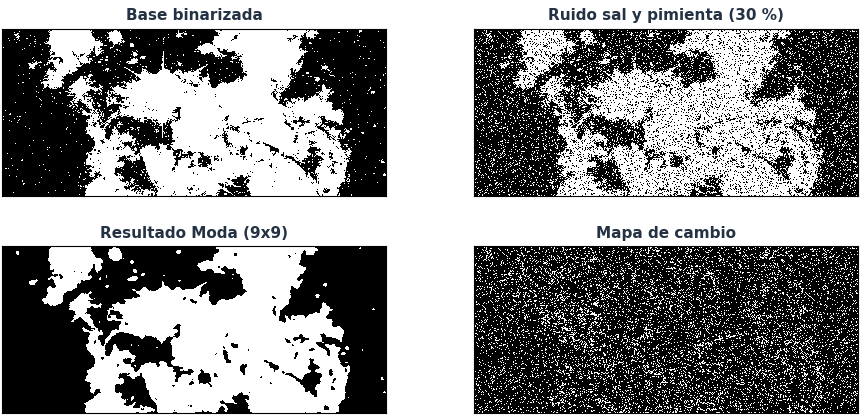
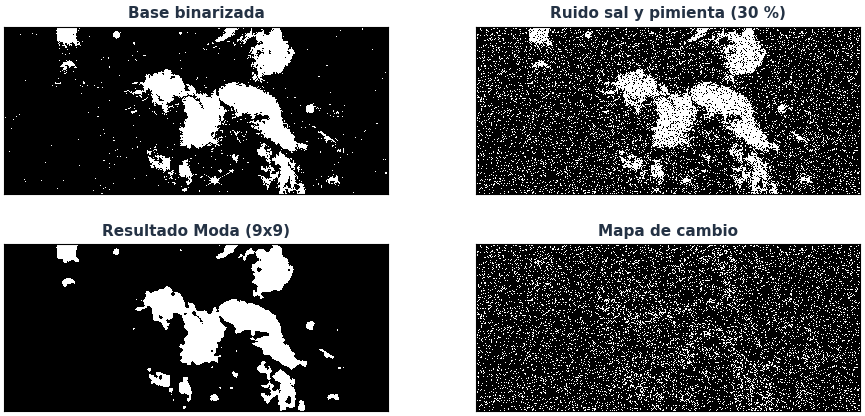
last changes

diff --git a/informe_imagenes/IA_VelasteguiManjarres_7SW_Filtros_dominio_espacial_frecuencia.tex b/informe_imagenes/IA_VelasteguiManjarres_7SW_Filtros_dominio_espacial_frecuencia.tex
@@ -79,7 +79,7 @@
 
 \textbf{Específicos:}
 \begin{itemize}
-    \item Construir una etapa de preprocesamiento que convierta la imagen a escala de grises, ecualice su histograma y genere una imagen binaria mediante umbral.
+    \item Construir una etapa de preprocesamiento que convierta la imagen a escala de grises, aplique normalización min-max y genere una imagen binaria mediante umbral.
     \item Evaluar filtros espaciales de media, mediana y moda sobre una imagen binaria alterada con ruido sal y pimienta.
     \item Analizar el filtrado en dominio de frecuencia mediante FFT, máscara gaussiana pasa bajas y reconstrucción de la imagen procesada.
 \end{itemize}
@@ -114,7 +114,7 @@
 
 \subsubsection*{Dependencias de Python utilizadas}
 \begin{itemize}
-    \item \textbf{OpenCV:} se emplea para leer la imagen desde disco y convertir la carga inicial de BGR a RGB. No se usa para binarizar, ecualizar ni filtrar.
+    \item \textbf{OpenCV:} se emplea para leer la imagen desde disco y convertir la carga inicial de BGR a RGB. No se usa para binarizar, normalizar ni filtrar.
     \item \textbf{NumPy:} se emplea para representar imágenes como matrices y para calcular la FFT en el dominio de frecuencia.
     \item \textbf{PySide6:} se usa para construir la interfaz gráfica, los botones, selectores, pestañas y controles deslizantes.
     \item \textbf{Matplotlib:} se usa para renderizar las imágenes y gráficos dentro de la interfaz.
@@ -153,7 +153,7 @@ En el dominio de frecuencia, la imagen se analiza mediante sus componentes espec
 
 Las técnicas tratadas en esta práctica tienen aplicaciones directas en problemas reales donde se necesita mejorar, limpiar o segmentar información visual. En imágenes médicas, por ejemplo, el realce de contraste y la reducción de ruido ayudan a distinguir estructuras anatómicas antes de una segmentación o diagnóstico asistido \cite{gonzalez}. En astronomía y teledetección, el filtrado y el análisis de frecuencias permiten resaltar estructuras extensas, reducir variaciones no deseadas y preparar imágenes para análisis posteriores \cite{pratt}. En documentos digitalizados o inspección industrial, la binarización y los filtros espaciales facilitan separar texto, defectos o regiones de interés del fondo \cite{jain}.
 
-En este proyecto esas aplicaciones se representan de forma controlada sobre una imagen de formación estelar W51. La imagen contiene zonas de alto brillo, regiones oscuras, detalles finos y textura; por eso es útil para observar cómo el preprocesamiento cambia la separación de intensidades, cómo el ruido sal y pimienta altera la imagen binaria y cómo los filtros espaciales y frecuenciales responden ante esa degradación.
+En este proyecto esas aplicaciones se representan de forma controlada sobre una imagen de formación estelar W51. La imagen contiene zonas de alto brillo, regiones oscuras, detalles finos y textura; por eso es útil para observar cómo el preprocesamiento ajusta el rango de intensidades, cómo el ruido sal y pimienta altera la imagen binaria y cómo los filtros espaciales y frecuenciales responden ante esa degradación.
 
 \subsubsection{Conversión a escala de grises}
 
@@ -164,20 +164,20 @@ El programa convierte la imagen RGB a escala de grises mediante la ponderación 
 \end{equation}
 Esta expresión asigna mayor peso al canal verde porque la percepción humana es más sensible a sus variaciones, y pesos menores a los canales rojo y azul \cite{gonzalez}. En el código esta operación se implementa con recorridos pixel a pixel, sin usar una función automática de OpenCV para convertir a grises.
 
-\subsubsection{Ecualización de histograma}
+\subsubsection{Normalización min-max}
 
-La ecualización de histograma busca redistribuir los niveles de intensidad de una imagen para mejorar su contraste global. Para ello se calcula el histograma, luego su distribución acumulada y finalmente se reasigna cada nivel de gris. El principio se basa en transformar la distribución original de intensidades en una distribución más extendida dentro del rango disponible \cite{jain}.
+La normalización min-max ajusta los niveles de intensidad de una imagen al rango completo disponible, sin redistribuir el histograma mediante una función acumulada. Este procedimiento toma el valor mínimo y el valor máximo presentes en la imagen en escala de grises, y reescala cada píxel proporcionalmente dentro del intervalo de 0 a 255. De esta forma, se aprovecha todo el rango dinámico antes de aplicar la binarización \cite{gonzalez,jain}.
 
-En la implementación del proyecto, el histograma de 256 posiciones se calcula mediante conteo manual. Luego se obtiene el acumulado y se aplica la transformación:
+En la implementación del proyecto, el mínimo y el máximo se calculan mediante recorridos manuales sobre la matriz de intensidades. Luego se aplica la transformación:
 \begin{equation}
-    s_k=\frac{CDF(k)-CDF_{min}}{MN-CDF_{min}}\times 255
-    \label{eq:ecualizacion}
+    I_{norm}(x,y)=\frac{I_{gris}(x,y)-I_{min}}{I_{max}-I_{min}}\times 255
+    \label{eq:minmax}
 \end{equation}
-donde $CDF(k)$ representa la frecuencia acumulada hasta el nivel $k$, $M$ y $N$ son las dimensiones de la imagen y $CDF_{min}$ evita que los niveles sin presencia afecten la normalización.
+donde $I_{min}$ e $I_{max}$ representan, respectivamente, el menor y el mayor valor de intensidad encontrados en la imagen. Si ambos valores son iguales, el programa conserva la imagen original para evitar una división por cero.
 
 \subsubsection{Binarización por umbral}
 
-La binarización reduce la imagen a dos valores: negro y blanco. Esta operación es útil cuando se desea separar regiones de interés del fondo. En el programa, la imagen ecualizada se transforma en binaria mediante un umbral ajustable:
+La binarización reduce la imagen a dos valores: negro y blanco. Esta operación es útil cuando se desea separar regiones de interés del fondo. En el programa, la imagen normalizada por min-max se transforma en binaria mediante un umbral ajustable:
 \begin{equation}
     I_{bin}(x,y)=
     \begin{cases}
@@ -213,7 +213,7 @@ Después de aplicar la máscara al espectro, se realiza la transformada inversa 
 
 \subsubsection{Descripción del programa}
 
-El programa se divide en dos archivos principales. El archivo \texttt{modelo.py} contiene el procesamiento numérico de la imagen: carga, conversión a grises, ecualización, binarización, ruido, filtros espaciales, filtrado en frecuencia y mapa de cambio. El archivo \texttt{interfaz.py} contiene la interfaz de usuario y administra el flujo de procesamiento mediante un hilo de trabajo para evitar que la ventana se bloquee mientras se ejecutan filtros costosos.
+El programa se divide en dos archivos principales. El archivo \texttt{modelo.py} contiene el procesamiento numérico de la imagen: carga, conversión a grises, normalización min-max, binarización, ruido, filtros espaciales, filtrado en frecuencia y mapa de cambio. El archivo \texttt{interfaz.py} contiene la interfaz de usuario y administra el flujo de procesamiento mediante un hilo de trabajo para evitar que la ventana se bloquee mientras se ejecutan filtros costosos.
 
 La primera parte del programa es común para todos los resultados. En esta etapa se obtiene una imagen binaria con ruido que funcionará como entrada compartida para la comparación posterior. Esta secuencia evita que cada filtro trabaje con una imagen distinta y permite analizar el efecto real de cada método.
 
@@ -226,13 +226,13 @@ La primera parte del programa es común para todos los resultados. En esta etapa
     ]
         \node[etapa] (rgb) {Imagen RGB};
         \node[etapa, right=of rgb] (gris) {Escala de grises};
-        \node[etapa, right=of gris] (ecu) {Histograma ecualizado};
-        \node[etapa, right=of ecu] (bin) {Binarización};
+        \node[etapa, right=of gris] (norm) {Normalización min-max};
+        \node[etapa, right=of norm] (bin) {Binarización};
         \node[etapa, right=of bin] (ruido) {Ruido sal y pimienta};
 
         \draw[flecha] (rgb) -- (gris);
-        \draw[flecha] (gris) -- (ecu);
-        \draw[flecha] (ecu) -- (bin);
+        \draw[flecha] (gris) -- (norm);
+        \draw[flecha] (norm) -- (bin);
         \draw[flecha] (bin) -- (ruido);
     \end{tikzpicture}
     \caption{Cadena común de preprocesamiento hasta obtener la imagen binaria con ruido.}
@@ -293,11 +293,15 @@ La interfaz expone cuatro grupos de control. El primero permite cargar y limpiar
     {\footnotesize Fuente: Elaboración propia.}
 \end{figure}
 
+Al iniciar el programa, los controles se cargan con valores base para permitir una primera ejecución sin configuración adicional: umbral de binarización en 127, ruido sal y pimienta en 5\%, filtro espacial en media, máscara espacial de $3 \times 3$ y $D_0=45$ píxeles. Estos valores provienen de la inicialización de los controles en \texttt{interfaz.py}. Después de cargar una imagen, el tamaño máximo de la máscara se ajusta según las dimensiones de la imagen para evitar máscaras excesivas, y el valor sugerido de $D_0$ se recalcula tomando como referencia la mitad de la dimensión menor de la imagen. Por ello, el valor inicial observado puede cambiar de forma automática después de seleccionar una imagen.
+
+El uso operativo de la interfaz sigue una secuencia simple: primero se carga la imagen, luego se ajustan el umbral, el ruido, el filtro espacial, el tamaño de máscara y el valor $D_0$. Finalmente, el usuario debe desplazarse hasta la parte inferior del panel lateral y pulsar el botón \textit{Procesar todo}. Esta acción ejecuta el flujo completo y actualiza las tres pestañas de resultados con la misma base binarizada.
+
 En la ejecución documentada se trabajó con un umbral de binarización de 136, ruido sal y pimienta de 30\%, filtro espacial de media con máscara $5 \times 5$ y filtro gaussiano en frecuencia con $D_0=80$. Con esta configuración se espera obtener una imagen binaria suficientemente contrastada, una versión degradada por ruido impulsivo y salidas filtradas que permitan observar la diferencia entre suavizado local por máscara y suavizado global por componentes de frecuencia.
 
 \subsubsection{Imagen de prueba}
 
-La imagen de prueba utilizada en la ejecución corresponde a una región de formación estelar W51. Presenta regiones con textura, zonas claras, zonas oscuras y detalles finos. Estas características permiten observar con mayor claridad el efecto de la ecualización, la binarización y los filtros posteriores.
+La imagen de prueba utilizada en la ejecución corresponde a una región de formación estelar W51. Presenta regiones con textura, zonas claras, zonas oscuras y detalles finos. Estas características permiten observar con mayor claridad el efecto de la normalización min-max, la binarización y los filtros posteriores.
 
 \begin{figure}[H]
     \centering
@@ -310,18 +314,18 @@ La imagen de prueba utilizada en la ejecución corresponde a una región de form
 
 \subsubsection{Pestaña de preprocesamiento}
 
-La primera vista presenta las etapas previas al filtrado. Se observa la imagen original RGB, su versión en escala de grises, la imagen ecualizada y la imagen binarizada. Esta vista confirma que el programa no aplica directamente los filtros sobre la imagen original, sino sobre una base preprocesada.
+La primera vista presenta las etapas previas al filtrado. Se observa la imagen original RGB, su versión en escala de grises, la imagen normalizada por min-max y la imagen binarizada. Esta vista confirma que el programa no aplica directamente los filtros sobre la imagen original, sino sobre una base preprocesada.
 
 \begin{figure}[H]
     \centering
     \includegraphics[width=0.94\textwidth]{img/preprocesamiento.png}
-    \caption{Pestaña de preprocesamiento. La interfaz muestra la imagen RGB, la conversión a grises, la ecualización del histograma y la binarización final.}
+    \caption{Pestaña de preprocesamiento. La interfaz muestra la imagen RGB, la conversión a grises, la normalización min-max y la binarización final.}
     \label{fig:preprocesamiento}
     \vspace{2pt}
     {\footnotesize Fuente: Elaboración propia.}
 \end{figure}
 
-La imagen ecualizada presenta mayor separación visual entre regiones claras y oscuras. Posteriormente, la binarización convierte esa información a una representación de dos niveles. Esta salida es útil para los filtros de mediana y moda, porque ambos pueden conservar o restaurar regiones dominantes de blanco y negro.
+La imagen normalizada por min-max estira el rango de intensidades disponible sin cambiar el orden relativo de los píxeles. Posteriormente, la binarización convierte esa información a una representación de dos niveles. Esta salida es útil para los filtros de mediana y moda, porque ambos pueden conservar o restaurar regiones dominantes de blanco y negro.
 
 \subsubsection{Pestaña de dominio espacial}
 
@@ -337,6 +341,8 @@ La segunda vista compara la base binarizada, la imagen con ruido, el resultado d
 \end{figure}
 
 El mapa de cambio no representa una imagen final mejorada. Su función es diagnóstica: muestra dónde el filtro modificó con mayor fuerza los valores de la imagen. Las zonas más claras indican diferencias más grandes entre la imagen con ruido y la imagen filtrada; las zonas oscuras indican cambios menores. Este recurso ayuda a interpretar la agresividad del filtro y a comparar media, mediana y moda con el mismo criterio.
+
+En la figura de dominio espacial, el mapa de cambio permite observar que las variaciones más notorias aparecen alrededor de puntos aislados de ruido y en bordes donde existen transiciones entre regiones blancas y negras. Esto es coherente con el filtro de media aplicado con máscara $5 \times 5$, ya que el promedio suaviza cambios bruscos y reemplaza píxeles extremos por valores intermedios. Las zonas oscuras del mapa indican áreas donde la estructura binaria se mantuvo relativamente estable; por tanto, el resultado muestra que el filtro actuó con mayor intensidad sobre el ruido impulsivo y sobre fronteras finas de la imagen W51, mientras conservó mejor las regiones amplias.
 
 \begin{figure}[H]
     \centering
@@ -409,7 +415,7 @@ Al compararlo con los filtros espaciales, el método en frecuencia actúa de for
 
 \subsubsection{Alcance de implementación manual}
 
-El programa usa librerías, pero no delega los filtros espaciales principales a funciones ya resueltas de OpenCV o NumPy. La conversión a grises, la ecualización, la binarización, la máscara de media, la mediana, la moda, la máscara gaussiana y la multiplicación del espectro se implementan mediante recorridos explícitos o cálculos propios dentro de \texttt{modelo.py}.
+El programa usa librerías, pero no delega los filtros espaciales principales a funciones ya resueltas de OpenCV o NumPy. La conversión a grises, la normalización min-max, la binarización, la máscara de media, la mediana, la moda, la máscara gaussiana y la multiplicación del espectro se implementan mediante recorridos explícitos o cálculos propios dentro de \texttt{modelo.py}.
 
 El uso de NumPy se justifica por dos motivos. Primero, permite almacenar la imagen como matriz, que es la representación natural del procesamiento digital. Segundo, permite usar la FFT para el dominio de frecuencia. Reimplementar la FFT completa excede el alcance de esta práctica porque se trata de un algoritmo matemático especializado y ampliamente validado \cite{cooley,harris}. Por ello, la práctica concentra el trabajo manual en las etapas estadísticas, espaciales y de construcción de máscaras.
 
@@ -425,7 +431,7 @@ $\square$ Resolución de conflictos
 
 \subsection{Conclusiones}
 
-La etapa de preprocesamiento permitió transformar una imagen RGB en una representación más adecuada para el análisis posterior. La conversión a escala de grises redujo la información de color a una sola matriz de intensidades, la ecualización del histograma mejoró la separación visual entre regiones claras y oscuras, y la binarización por umbral produjo una base de dos niveles sobre la cual se pudo trabajar de manera controlada. Con ello se comprobó que la calidad de las etapas iniciales condiciona directamente el comportamiento de los filtros posteriores.
+La etapa de preprocesamiento permitió transformar una imagen RGB en una representación más adecuada para el análisis posterior. La conversión a escala de grises redujo la información de color a una sola matriz de intensidades, la normalización min-max ajustó los valores al rango completo de 0 a 255 sin utilizar una redistribución acumulada, y la binarización por umbral produjo una base de dos niveles sobre la cual se pudo trabajar de manera controlada. Con ello se comprobó que la calidad de las etapas iniciales condiciona directamente el comportamiento de los filtros posteriores.
 
 La evaluación de los filtros espaciales sobre la imagen con ruido sal y pimienta mostró diferencias claras entre las estrategias locales implementadas. El filtro de media suavizó la imagen, pero generó valores intermedios de gris al promediar una entrada binaria; la mediana redujo mejor el ruido impulsivo porque seleccionó el valor central de la vecindad; y la moda mantuvo coherencia con la estructura binaria al conservar el valor más repetido. El mapa de cambio permitió evidenciar visualmente dónde cada filtro modificó con mayor intensidad la imagen.
 
@@ -433,7 +439,7 @@ El análisis en dominio de frecuencia permitió observar el mismo problema desde
 
 \subsection{Recomendaciones}
 
-Se recomienda ajustar el umbral de binarización observando la imagen ecualizada, ya que un valor demasiado bajo puede incluir regiones de fondo como zonas blancas y un valor demasiado alto puede eliminar estructuras relevantes. Para esta tarea, el preprocesamiento debe revisarse antes de aplicar ruido o filtros, porque una binarización deficiente arrastra errores hacia las etapas espacial y frecuencial.
+Se recomienda ajustar el umbral de binarización observando la imagen normalizada por min-max, ya que un valor demasiado bajo puede incluir regiones de fondo como zonas blancas y un valor demasiado alto puede eliminar estructuras relevantes. Para esta tarea, el preprocesamiento debe revisarse antes de aplicar ruido o filtros, porque una binarización deficiente arrastra errores hacia las etapas espacial y frecuencial.
 
 Se recomienda utilizar máscaras espaciales pequeñas o moderadas cuando se trabaje con imágenes de mayor resolución, debido a que los filtros fueron implementados con recorridos manuales y su tiempo de ejecución aumenta con el tamaño de la vecindad. Además, para ruido sal y pimienta conviene priorizar mediana o moda cuando se desea conservar una salida cercana a una imagen binaria.
 

diff --git a/modelo.py b/modelo.py
@@ -39,36 +39,30 @@ def convertir_a_grises(imagen_rgb):
     return gris
 
 
-def normalizar_histograma_grises(imagen_gris):
-    """Ecualiza el histograma de una imagen en grises con conteo manual."""
-    print("[modelo] Ecualizando histograma...")
+def normalizar_minmax_grises(imagen_gris):
+    """Normaliza una imagen en grises al rango 0-255 usando min-max manual."""
+    print("[modelo] Normalizando con min-max...")
     alto, ancho = imagen_gris.shape
-    histograma = [0] * 256
-
-    for fila in range(alto):
-        for columna in range(ancho):
-            histograma[int(imagen_gris[fila, columna])] += 1
-
-    acumulado = [0] * 256
-    acumulado[0] = histograma[0]
-    for indice in range(1, 256):
-        acumulado[indice] = acumulado[indice - 1] + histograma[indice]
-
-    cdf_min = 0
-    for valor in acumulado:
-        if valor > 0:
-            cdf_min = valor
-            break
-
-    total = alto * ancho
-    resultado = np.zeros((alto, ancho), dtype=np.uint8)
-    if total == cdf_min:
-        return imagen_gris.copy()
+    minimo = 255
+    maximo = 0
 
     for fila in range(alto):
         for columna in range(ancho):
             pixel = int(imagen_gris[fila, columna])
-            nuevo = round((acumulado[pixel] - cdf_min) * 255 / (total - cdf_min))
+            if pixel < minimo:
+                minimo = pixel
+            if pixel > maximo:
+                maximo = pixel
+
+    resultado = np.zeros((alto, ancho), dtype=np.uint8)
+    if maximo == minimo:
+        return imagen_gris.copy()
+
+    rango = maximo - minimo
+    for fila in range(alto):
+        for columna in range(ancho):
+            pixel = int(imagen_gris[fila, columna])
+            nuevo = round((pixel - minimo) * 255 / rango)
             if nuevo < 0:
                 nuevo = 0
             elif nuevo > 255:

diff --git a/interfaz.py b/interfaz.py
@@ -215,7 +215,7 @@ class WorkerProcesoCompleto(QThread):
             hist_gris = modelo.calcular_histograma_grises(img_gris)
             print("[pipeline] Grises listos.")
 
-            img_normalizada = modelo.normalizar_histograma_grises(img_gris)
+            img_normalizada = modelo.normalizar_minmax_grises(img_gris)
             hist_normalizada = modelo.calcular_histograma_grises(img_normalizada)
             print("[pipeline] Normalizacion lista.")
 
@@ -393,7 +393,7 @@ class VentanaPrincipal(QMainWindow):
         sidebar_layout.setContentsMargins(24, 24, 24, 24)
         sidebar_layout.setSpacing(14)
 
-        sidebar_titulo = QLabel("Laboratorio de filtros")
+        sidebar_titulo = QLabel("Filtros")
         sidebar_titulo.setObjectName("SidebarTitle")
         sidebar_layout.addWidget(sidebar_titulo)
         
@@ -490,7 +490,7 @@ class VentanaPrincipal(QMainWindow):
         layout.setSpacing(10)
 
         descripcion = QLabel(
-            "Secuencia base: imagen RGB, escala de grises, ecualizacion y binarizacion final."
+            "Secuencia base: imagen RGB, escala de grises, normalizacion min-max y binarizacion final."
         )
         descripcion.setObjectName("Muted")
         descripcion.setWordWrap(True)
@@ -500,7 +500,7 @@ class VentanaPrincipal(QMainWindow):
             [
                 {"tipo": "imagen", "clave": "original", "titulo": "Imagen original RGB"},
                 {"tipo": "imagen", "clave": "gris", "titulo": "Escala de grises"},
-                {"tipo": "imagen", "clave": "normalizada", "titulo": "Imagen ecualizada"},
+                {"tipo": "imagen", "clave": "normalizada", "titulo": "Imagen normalizada min-max"},
                 {"tipo": "imagen", "clave": "binaria", "titulo": "Imagen binarizada"},
             ],
             2,

diff --git a/README.md b/README.md
@@ -6,7 +6,7 @@ Aplicacion de escritorio en Python para comparar procesamiento en dominio espaci
 
 - Carga de imagen RGB
 - Conversion manual a escala de grises
-- Ecualizacion manual de histograma
+- Normalizacion min-max manual
 - Binarizacion por umbral
 - Ruido sal y pimienta
 - Filtros espaciales: media, mediana y moda
